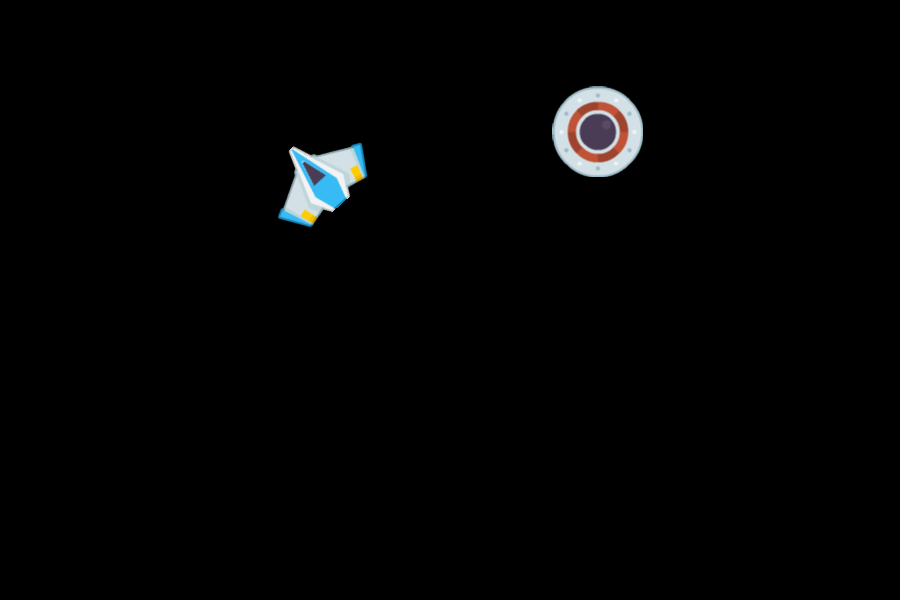
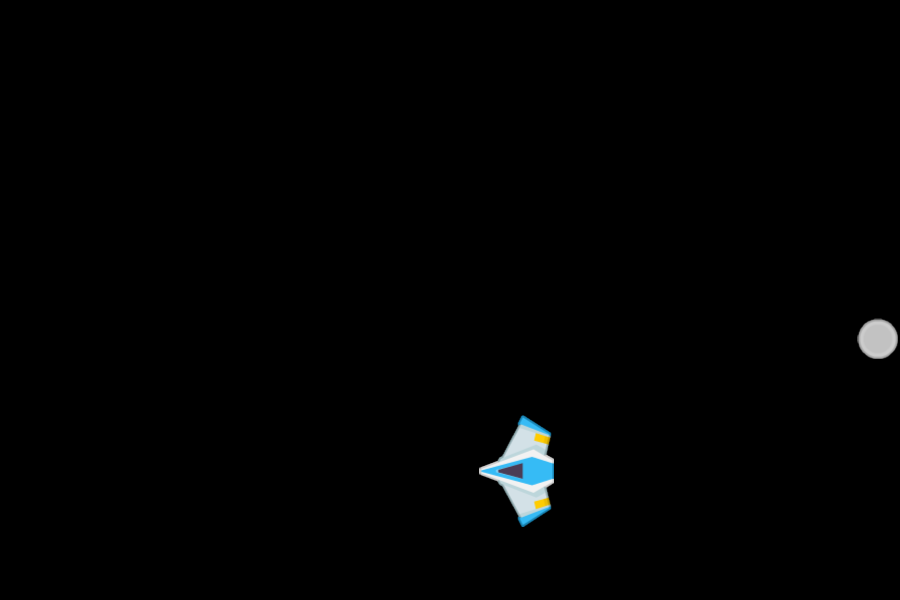
Upload

diff --git a/ai/vision/colour_filter.py b/ai/vision/colour_filter.py
@@ -10,6 +10,22 @@ PLAYER_PRIMARY_COLOUR = np.array([245, 187, 54])
 PLAYER_SECONDARY_COLOUR = np.array([85, 60, 74])
 
 
+def delta_to_angle(delta):
+    angle = np.degrees(np.arctan(delta[0] / delta[1]))
+
+    if delta[1] < 0:
+        angle += 180
+    angle += 90
+
+    return angle
+
+
+# print(delta_to_angle([1, 1]))
+# print(delta_to_angle([1, -1]))
+# print(delta_to_angle([-1, -1]))
+# print(delta_to_angle([-1, 1]))
+# exit()
+
 handle = search_game_window("AIrcade")
 
 while True:
@@ -36,6 +52,8 @@ while True:
     secondary_mean = secondary_coords.mean(axis=0)
 
     delta = secondary_mean - primary_mean
+    angle = delta_to_angle(delta)
+    print(delta, angle)
     end = primary_mean + delta * 10
 
     # print("center", center)

diff --git a/ai/game/main.py b/ai/game/main.py
@@ -24,6 +24,10 @@ class GameWindow(arcade.Window):
 
     def on_key_press(self, symbol, modifiers):
         print("pressed:", symbol)
+        if symbol == arcade.key.J:
+            self.player.angle -= 1
+        if symbol == arcade.key.K:
+            self.player.angle += 1
         self.pressed_keys.add(symbol)
 
     def on_key_release(self, symbol, modifiers):

diff --git a/ai/control/window.py b/ai/control/window.py
@@ -51,6 +51,10 @@ def take_screenshot(handle):
     image = Image.frombuffer("RGB", (width, height), image_data, "raw", "BGRX", 0, 1)
 
     image.save("ai/vision/map.png")
+    # CLear up memory
+    win32gui.DeleteObject(bitmap.GetHandle())
+    compatile_dc.DeleteDC()
+    device_context.DeleteDC()
     return np.array(image)
 
 
